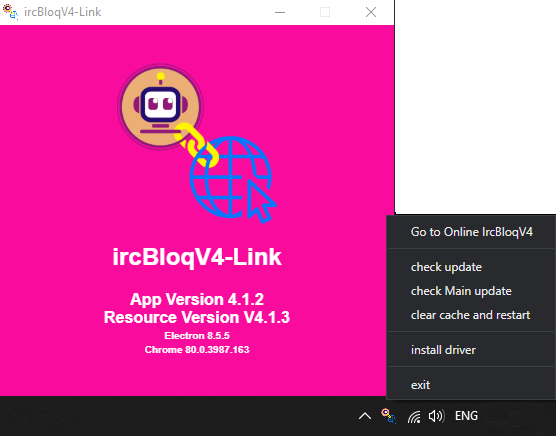
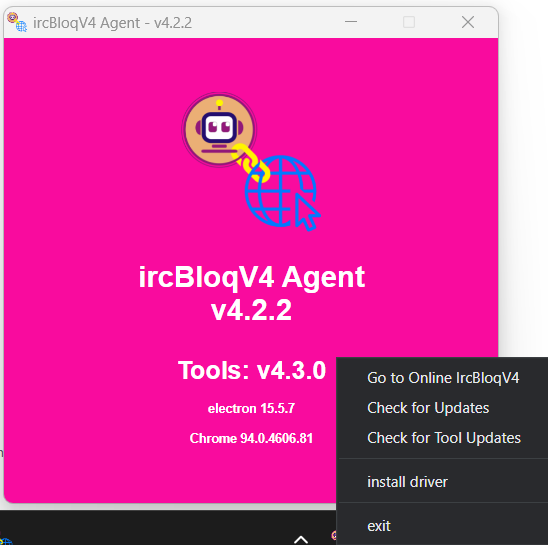
ircbloq-agent V4.2.2

diff --git a/CHANGE.md b/CHANGE.md
@@ -1,9 +1,22 @@
 # Change Log
+###  IrcBloqV4-Link software, now its renamed as lrcBloqV4-Agent
+
+## V4.2.2
+- **New Features**
+
+      1. Reduced the File size
+      2. Tools will be installed automatically when the app opens first time.
+      3. Updated with latest Arduino cli and ESP boards.
+      4. Added AI extensions in latest software update.
+      5. Added Custom Firmware for iBotV2, which supports for ai blocks.
+      6. increased code uploading speed for arduino and esp boards.
+      7. added arduino and micropython programming mode for esp and rpi pico boards.
+
 ## V4.1.6
 
 - **Bug Fix**
- 
-     1. Removed Resource server and moved to cloud. 
+
+     1. Removed Resource server and moved to cloud.
      2. Changed the Link server Port address.
      3. Fixed CORS origin Error Fixed.
      4. https Certificate issues while access from GUI.
@@ -11,7 +24,7 @@
 ## V4.1.5
 
 - **New Features**
- 
+
     1. Updated New Resource Version.
     2. Changed the Update external Resource method.
 

diff --git a/README.md b/README.md
@@ -1,9 +1,9 @@
 # ircbloq-link-releases
-# ircBloqV4-link
+# ircBloqV4-Agent
 
-![GitHub release (latest by date)](https://img.shields.io/github/v/release/ircbloqcc/ircbloq-link-releases) ![Total downloads](https://img.shields.io/github/downloads/ircbloqcc/ircbloq-link-releases/total) 
+![GitHub release (latest by date)](https://img.shields.io/github/v/release/ircbloqcc/ircbloq-link-releases) ![Total downloads](https://img.shields.io/github/downloads/ircbloqcc/ircbloq-link-releases/total)
 
-ircBloqv4 Link is an application that provides local hardware connection support for ircBloqV4 online web pages.
+ircBloqv4 Agent is an application that provides local hardware connection support for ircBloqV4 online web pages.
 
 ![screenshot1](./docs/Screenshot_1.png)
 
@@ -14,5 +14,3 @@ Visit the wiki: [https://ircbloqcc.github.io/wiki](https://ircbloqcc.github.io/w
 ## Bug Report
 
 You can submit the bug log in issues of this project.
-
-## Credits to Openblockcc
